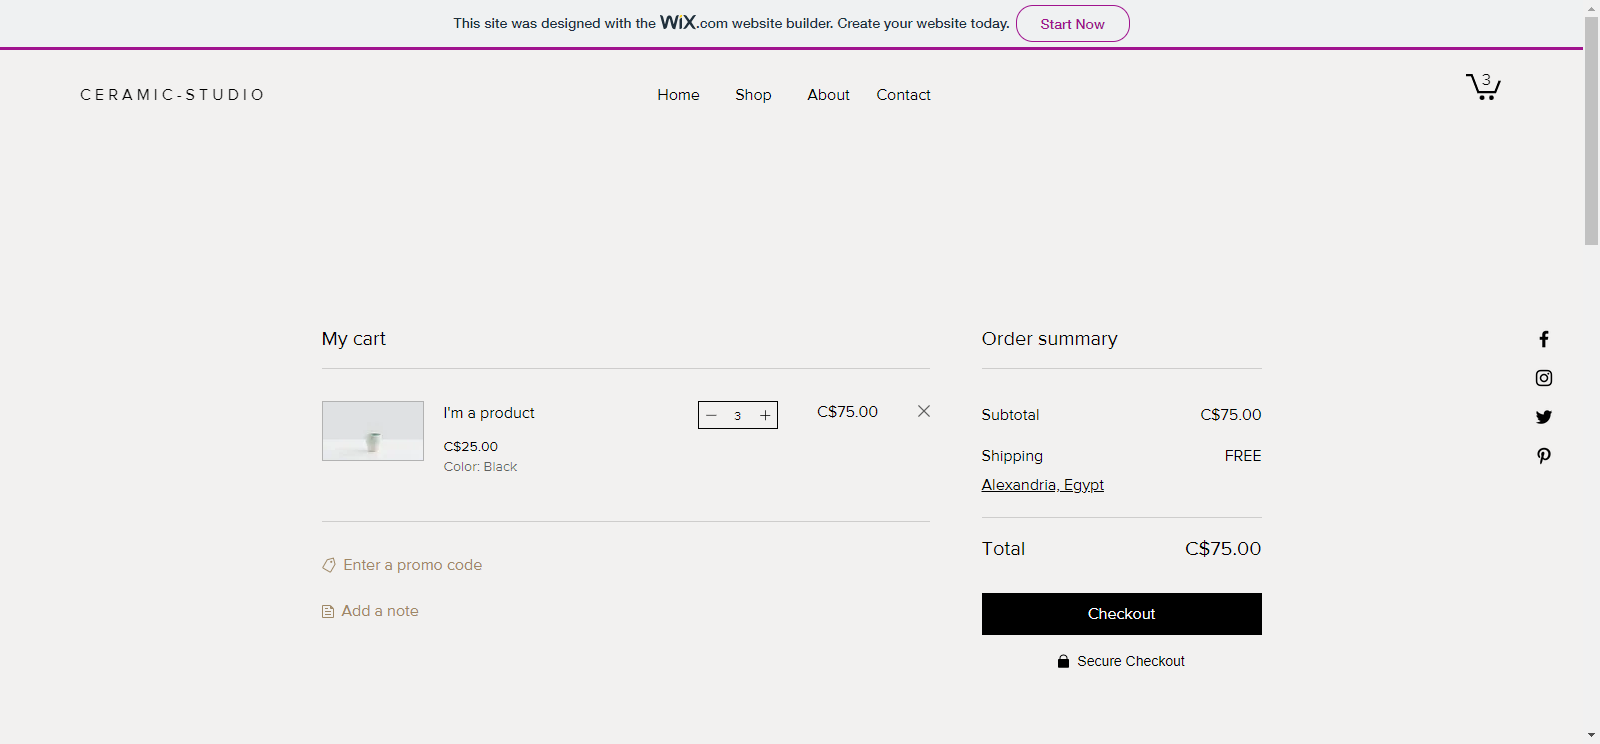
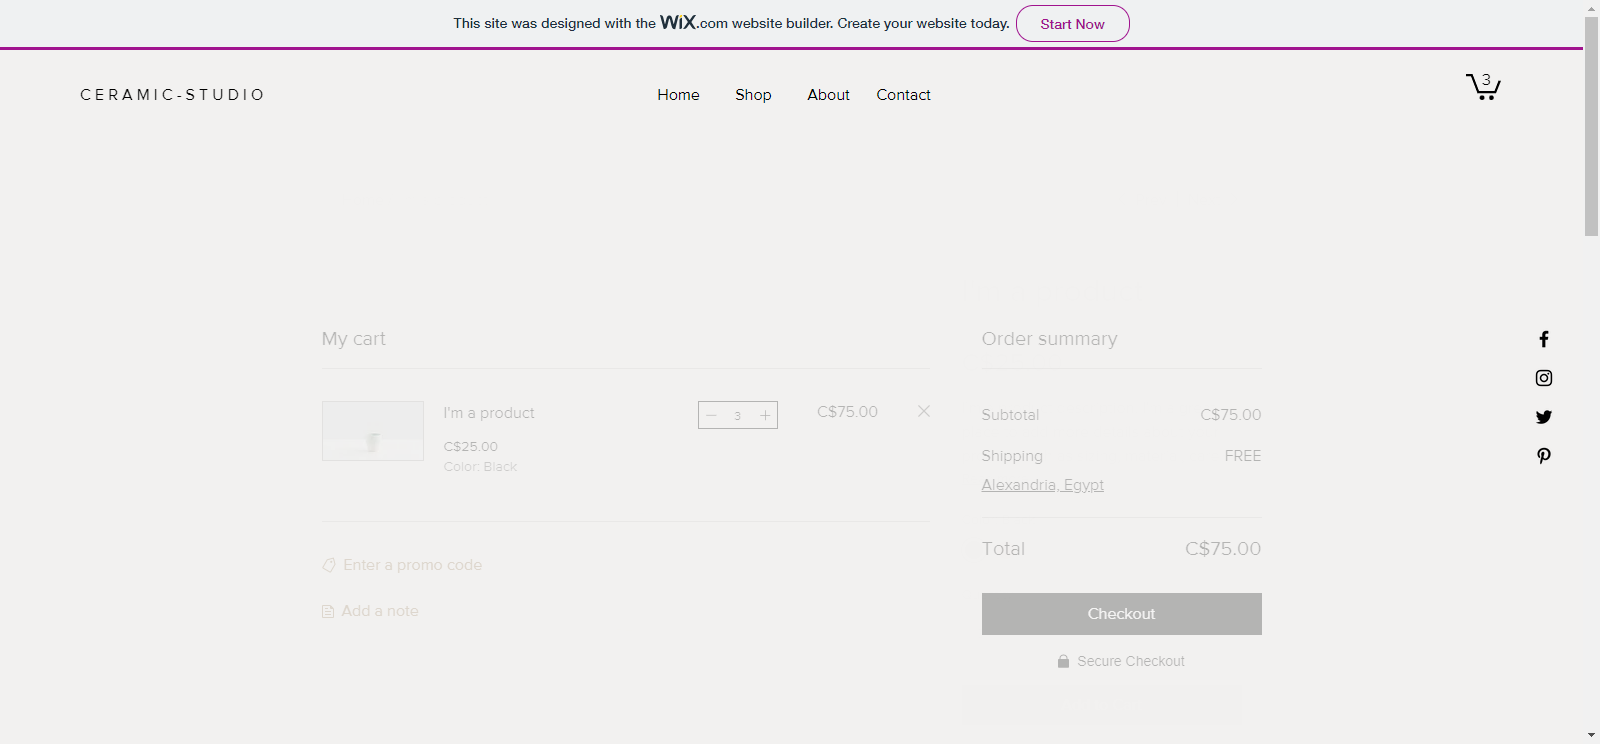
added comment

diff --git a/src/main/java/pages/HomePage.java b/src/main/java/pages/HomePage.java
@@ -40,7 +40,9 @@ public class HomePage {
 
     // Method to take screenshot
     public void takeScreenShot(String screenShotName) throws IOException, InterruptedException {
-        Thread.sleep(3000);
+        //The following wait is to overcome slow internet connection until the page is loaded
+        //we can use wait until element exists, but this will not make the method usable for all pages
+        Thread.sleep(5000);
         //Convert web driver object to TakeScreenshot
         TakesScreenshot screenShot =((TakesScreenshot)driver);
         //Call getScreenshotAs method to create image file
